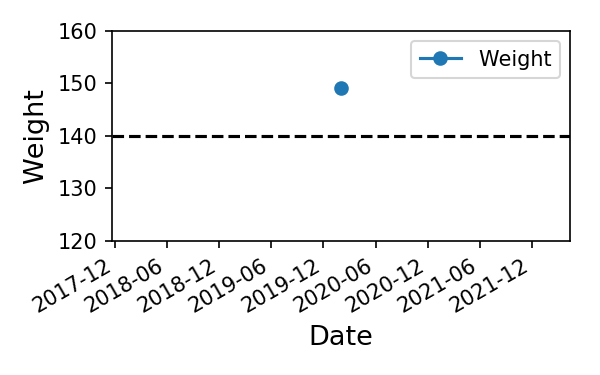
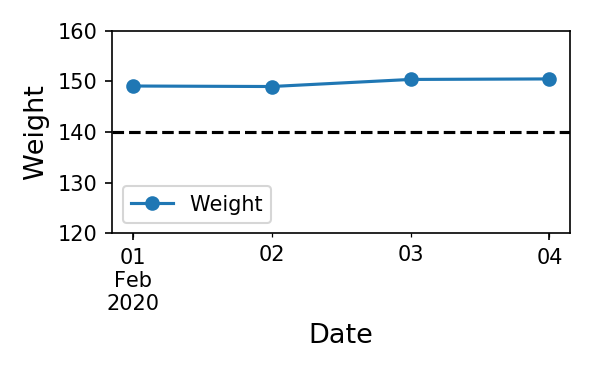
update data
update data 20200204

Changed region(s): [[0.03, 0.176, 0.96, 0.9387], [0.21, 0.088, 0.96, 0.264]]

diff --git a/code/draw.py b/code/draw.py
@@ -12,7 +12,7 @@ import matplotlib.pyplot as plt
 data_file = '../data/health.xlsx'
 figure_dir = '../figure/'
 
-df = pd.read_excel(data_file,sheetname='temp')
+df = pd.read_excel(data_file,sheet_name='temp')
 df['Date'] = pd.to_datetime(df['Date'])
 df.set_index('Date',inplace=True)
 # 绘制体温
@@ -26,12 +26,13 @@ ax.axhline(y=37.3,color='k',ls='--')
 
 ax.set_xlabel('Date',fontsize=13)
 ax.set_ylabel('Temp',fontsize=13)
+ax.legend(loc='upper left')
 
 plt.tight_layout()
 plt.savefig(f'{figure_dir}/temp.png',dpi=150)
 
 # 绘制体重
-df = pd.read_excel(data_file,sheetname='weight')
+df = pd.read_excel(data_file,sheet_name='weight')
 df['Date'] = pd.to_datetime(df['Date'])
 df.set_index('Date',inplace=True)
 
@@ -45,6 +46,6 @@ ax.axhline(y=140,color='k',ls='--')
 
 ax.set_xlabel('Date',fontsize=13)
 ax.set_ylabel('Weight',fontsize=13)
-
+ax.legend(loc='lower left')
 plt.tight_layout()
 plt.savefig(f'{figure_dir}/weight.png',dpi=150)
